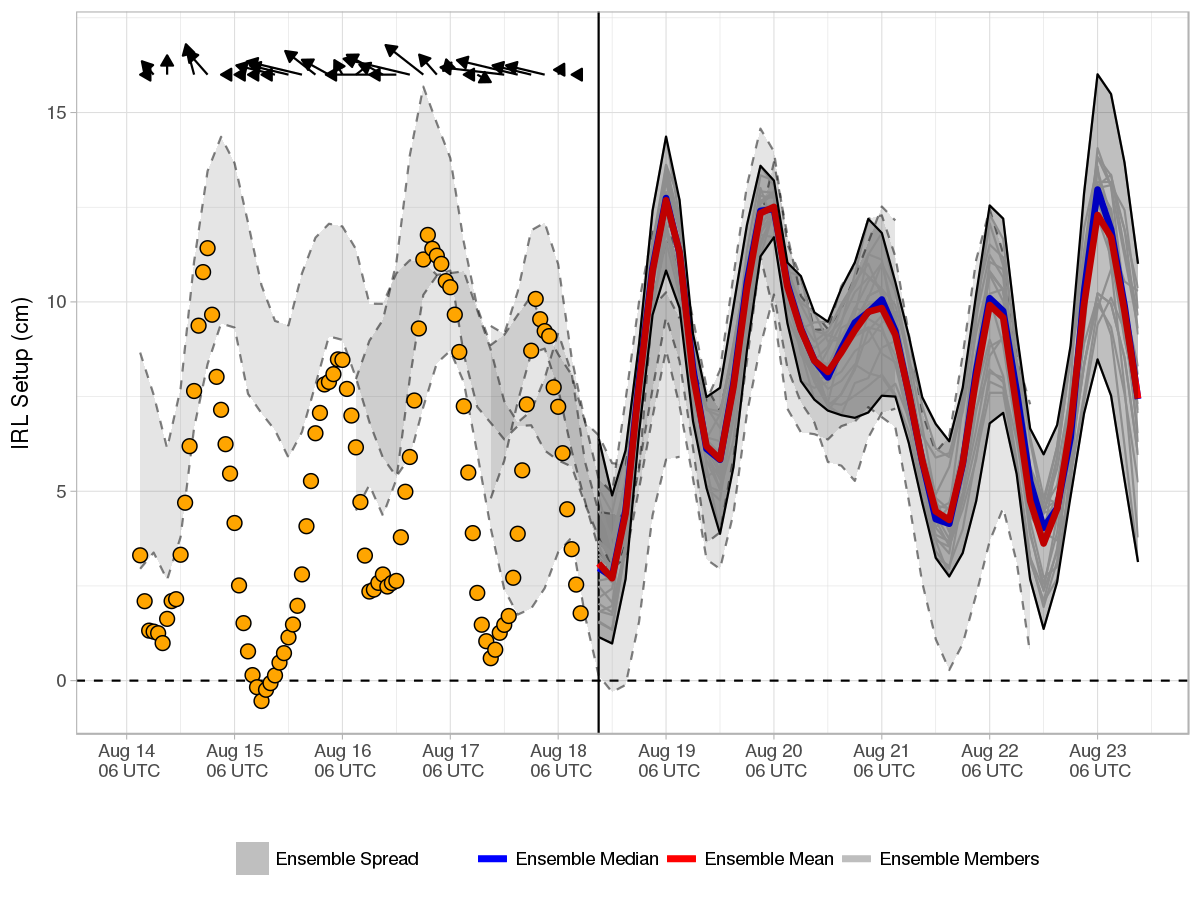
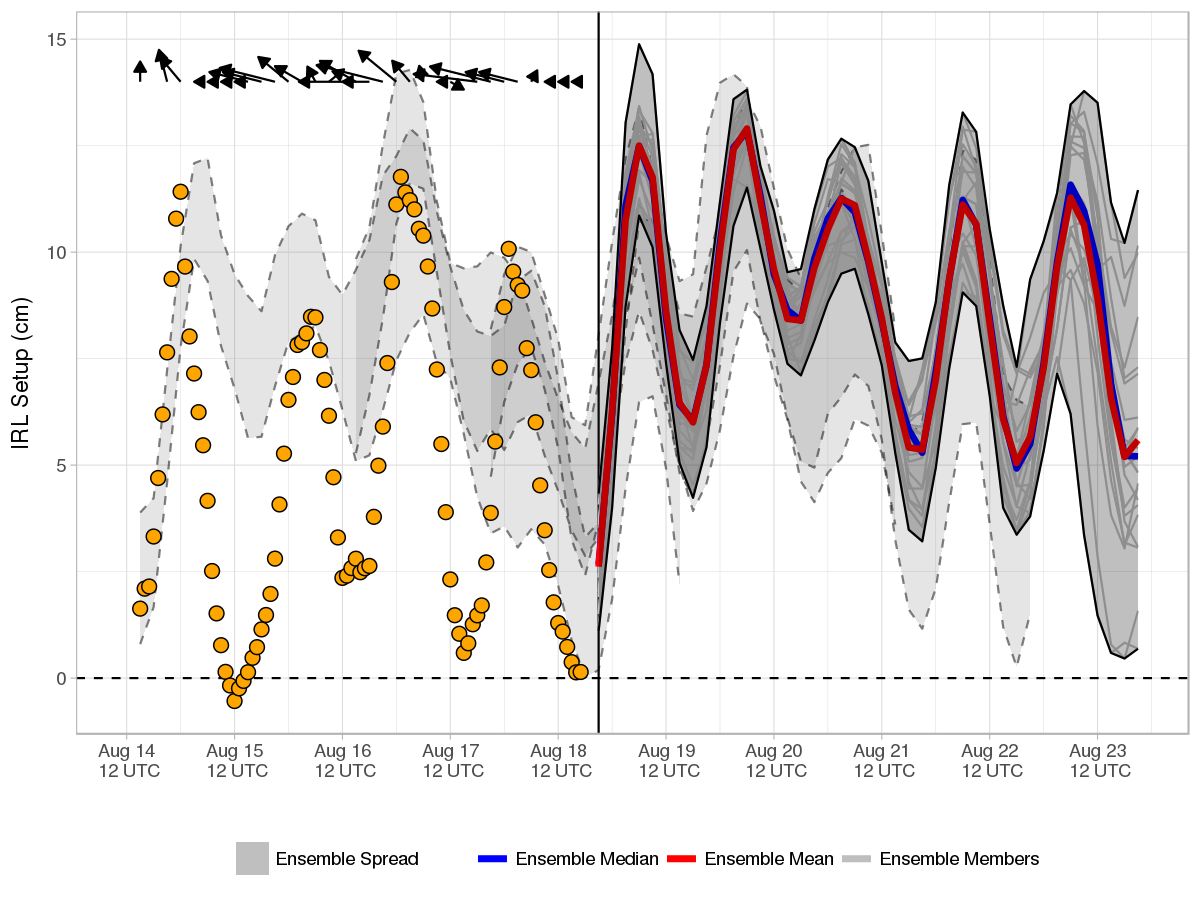
Forecast Update

diff --git a/docs/index.md b/docs/index.md
@@ -1,9 +1,9 @@
-Current Forecast 2018-08-18, Cycle 06 UTC
+Current Forecast 2018-08-18, Cycle 12 UTC
 -----------------------------------------
 
 [![](img/raw_setup.png)](https://fit-winds.github.io/IRLSetup/img/raw_setup.png)
 
-> Forecast valid 2018-08-18 08:21:16.
+> Forecast valid 2018-08-18 14:21:54.
 
 Explanation
 -----------
@@ -23,7 +23,7 @@ Ensemble Forecast System
 cycles. Calculation of the IRL setup is performed shortly after a new
 GEFS cycle is made available on the [data access
 link](http://www.ftp.ncep.noaa.gov/data/nccf/com/gens/prod/). The
-current cycle 2018-08-18 06 UTC 0.5° GEFS mean and median forecasts of
+current cycle 2018-08-18 12 UTC 0.5° GEFS mean and median forecasts of
 setup are represented by the red and blue curves, respectively. Ensemble
 spread from the current and three previous GEFS runs are shaded grey and
 bounded by solid and dashed curves, respectively.
